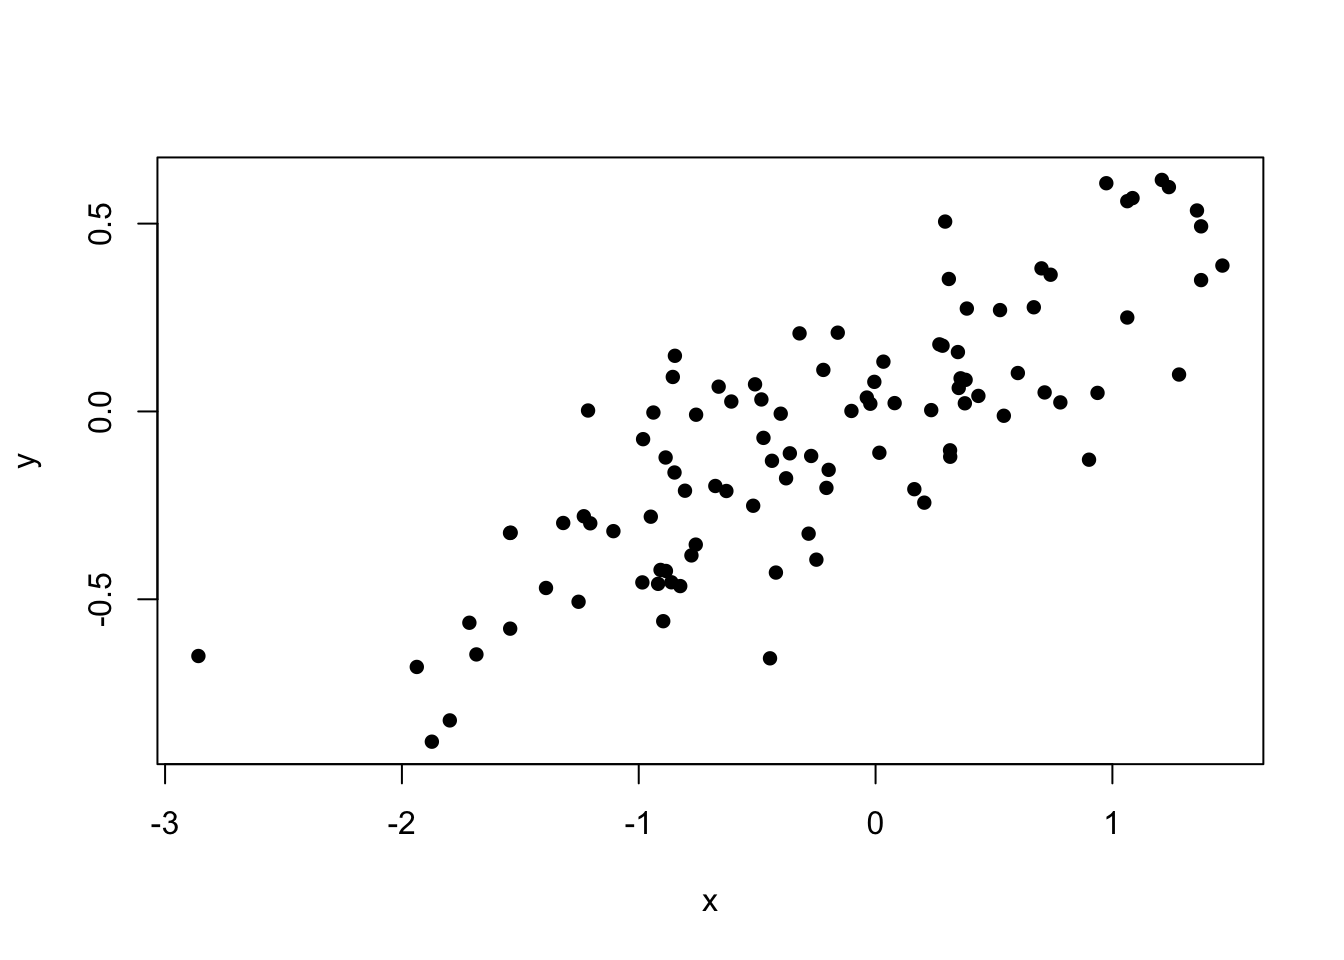
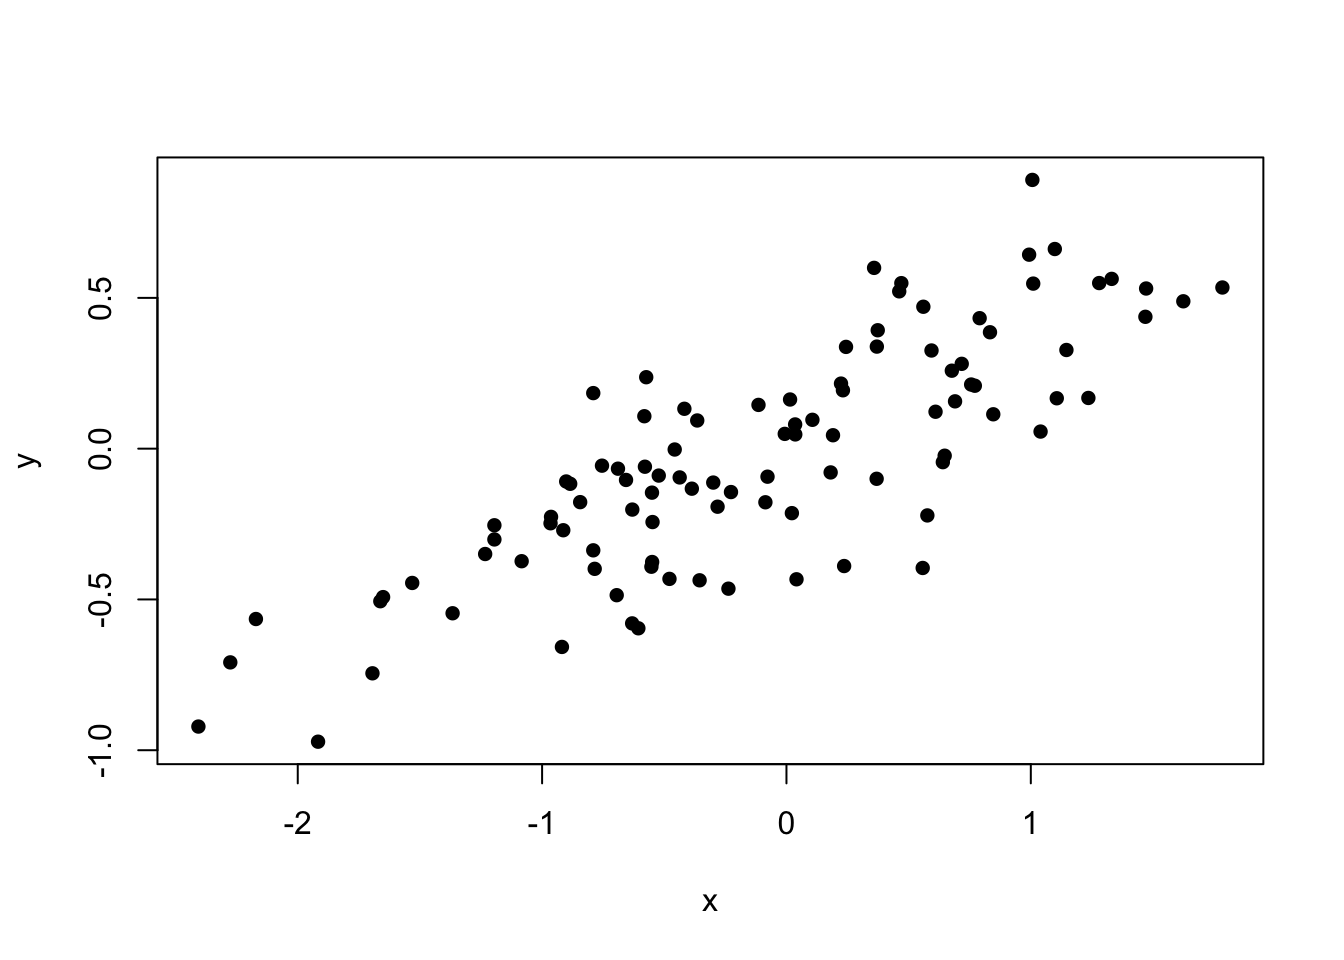
update

diff --git a/automation.html b/automation.html
@@ -119,15 +119,15 @@ for(counter in myVector){
 <p>Often, we want to do some calculations, and save the results outside of the <code>for</code> loop. To do this, we can create a results vector in advance that is the same length as the vector we are looping over, then we can save the results each time in the appropriate slot.</p>
 <pre class="r"><code>myVector &lt;- runif(100, min = 1, max=10)
 myVector</code></pre>
-<pre><code>##   [1] 4.169032 9.381425 8.262496 9.544557 4.436901 4.822694 5.753550 2.374441 6.454186 2.900714 7.761086 5.262878
-##  [13] 6.566285 9.407271 7.956532 4.724440 6.323211 1.760518 5.189697 1.804985 3.332651 5.443809 2.734080 9.134047
-##  [25] 7.894031 4.351312 7.736285 1.319876 5.160511 4.344400 2.162907 4.056943 2.208939 5.192294 3.997332 9.098933
-##  [37] 5.841177 7.260616 2.173945 8.354821 2.711332 8.382490 8.309526 9.225534 3.455903 7.416200 5.832861 3.155038
-##  [49] 8.248312 3.901136 4.688629 8.967419 7.653447 6.412762 5.965366 6.557148 8.179407 7.179055 7.838160 1.622826
-##  [61] 4.993543 3.808863 9.500588 1.771975 4.017842 5.118576 4.176763 3.477405 8.071101 6.016221 6.342884 5.081467
-##  [73] 3.630910 6.901673 5.237839 5.603000 7.936080 8.070746 2.955768 6.877485 4.252765 5.878201 3.766132 4.372458
-##  [85] 5.023632 6.617605 1.813040 4.384392 2.615013 8.116380 1.078992 2.142113 9.446395 1.467616 7.224622 1.101452
-##  [97] 3.314160 4.384912 2.067689 5.979205</code></pre>
+<pre><code>##   [1] 6.607003 9.692862 5.444176 4.748146 8.833713 4.596215 6.564168 4.848860 2.696456 3.965114 5.497345 2.406339
+##  [13] 1.401822 8.041336 3.485758 4.058546 9.577417 6.015290 7.410805 1.287536 3.777164 9.438812 8.274525 6.451334
+##  [25] 6.911961 7.372483 3.838205 2.063914 2.556646 4.211633 1.654287 4.512662 3.876075 1.928881 2.573089 1.943260
+##  [37] 3.027283 7.554731 2.969709 5.576643 2.791155 2.928296 3.302682 3.321758 7.389931 4.146995 5.193015 4.718434
+##  [49] 7.092931 9.790803 4.585226 5.631485 6.715122 2.221321 4.930676 1.829307 1.205020 7.983958 7.336623 1.654236
+##  [61] 4.817655 4.693708 6.337397 4.240566 9.031517 1.222854 1.447238 1.683177 2.622274 2.713583 6.804874 7.253059
+##  [73] 1.745182 9.660749 2.313303 8.076350 7.669403 3.461993 1.814179 8.679249 5.436453 4.329382 4.850197 9.902828
+##  [85] 1.525541 8.711777 5.984902 4.454385 1.867512 7.818484 7.611648 1.024939 8.355088 5.020087 5.304751 1.860386
+##  [97] 2.660011 2.584258 9.084583 3.221537</code></pre>
 <pre class="r"><code>results &lt;- numeric(100)
 for(each in 1:length(myVector)){
   results[each] &lt;- paste(myVector[each], &quot;^ 2 = &quot;, myVector[each]^2)
@@ -135,9 +135,9 @@ for(each in 1:length(myVector)){
 
 ##now get some of the stored results
 results[50]</code></pre>
-<pre><code>## [1] &quot;3.90113566513173 ^ 2 =  15.2188594777628&quot;</code></pre>
+<pre><code>## [1] &quot;9.79080264386721 ^ 2 =  95.8598164111571&quot;</code></pre>
 <pre class="r"><code>results[73]</code></pre>
-<pre><code>## [1] &quot;3.63090957142413 ^ 2 =  13.1835043158593&quot;</code></pre>
+<pre><code>## [1] &quot;1.74518220918253 ^ 2 =  3.04566094324722&quot;</code></pre>
 </div>
 <div id="if-statements" class="section level3">
 <h3><code>if</code> statements</h3>
@@ -177,9 +177,27 @@ for(trial in outcomes){
 <div id="lapply-writing-your-own-functions" class="section level2">
 <h2>lapply + writing your own functions</h2>
 <p>The function <code>lapply()</code> is like a <code>for</code> loop, but is optimized and explicitly functional. <code>lapply()</code> usually takes two arguments <code>X</code> which is a list or a vector to loop over, and <code>FUN</code> which is a function to apply to each element of <code>X</code>. Thus, <code>FUN</code> must be able to accept any element of <code>X</code> as an argument. The clearest way is to write your own function.</p>
+</div>
+<div id="writing-functions" class="section level2">
+<h2>Writing functions</h2>
+<p>Functions are the best way to encapsulate code that you want to repeat again and again. A function accepts <strong>arguments</strong> and <strong>returns</strong> a single (and only a single) object (but this can be a single number, list, dataframe, vector, etc.). Variable names defined within a function only exist within the function (not within the global environment).</p>
+<pre class="r"><code>is.even &lt;- function(number){
+  if(number %% 2 == 0) {return(&quot;The number is even&quot;)}
+  else {return(&quot;The number is not even&quot;)}
+}
+
+is.even(1233)</code></pre>
+<pre><code>## [1] &quot;The number is not even&quot;</code></pre>
+<pre class="r"><code>is.even(1234)</code></pre>
+<pre><code>## [1] &quot;The number is even&quot;</code></pre>
+<pre class="r"><code>is.even(-1.2)</code></pre>
+<pre><code>## [1] &quot;The number is not even&quot;</code></pre>
+</div>
+<div id="lists" class="section level2">
+<h2>Lists</h2>
 <p>The “l” in <code>lapply()</code> stands for “list”, because that’s what you get as a result. Lists are kind of like vectors, but with important differences:</p>
 <div id="lists-can-hold-any-type-of-data-and-not-every-element-needs-to-be-the-same-type." class="section level4">
-<h4>lists can hold any type of data, and not every element needs to be the same type.</h4>
+<h4><strong>lists can hold any type of data, and not every element needs to be the same type.</strong></h4>
 <pre class="r"><code>myList &lt;- list(firstOne=1, nextOne=&quot;too&quot;, lastOne=rnorm(10))
 myList</code></pre>
 <pre><code>## $firstOne
@@ -189,19 +207,23 @@ myList</code></pre>
 ## [1] &quot;too&quot;
 ## 
 ## $lastOne
-##  [1] -1.35088198  1.28972025  0.83358674 -0.49184546 -0.86115994  1.73056519 -0.22942816  0.74069528 -0.08964557
-## [10] -1.47823069</code></pre>
+##  [1]  0.05391183  1.86599507 -0.03946627  0.64870088 -0.92474533 -0.19205365  1.51686310 -0.04025312 -0.25323028
+## [10] -1.31165633</code></pre>
 </div>
 <div id="you-use-double-brackets-to-index-a-list" class="section level4">
 <h4>you use double brackets <code>[[]]</code> to index a list</h4>
 <pre class="r"><code>myList[[3]]</code></pre>
-<pre><code>##  [1] -1.35088198  1.28972025  0.83358674 -0.49184546 -0.86115994  1.73056519 -0.22942816  0.74069528 -0.08964557
-## [10] -1.47823069</code></pre>
+<pre><code>##  [1]  0.05391183  1.86599507 -0.03946627  0.64870088 -0.92474533 -0.19205365  1.51686310 -0.04025312 -0.25323028
+## [10] -1.31165633</code></pre>
 </div>
 <div id="lists-can-optionally-have-named-elements-that-can-be-accessed-using-the-operator" class="section level4">
 <h4>lists can (optionally) have named elements, that can be accessed using the <code>$</code> operator</h4>
 <pre class="r"><code>myList$nextOne</code></pre>
 <pre><code>## [1] &quot;too&quot;</code></pre>
+</div>
+<div id="where-have-you-seen-the-operator-before" class="section level3">
+<h3><span class="mega-octicon octicon-question"></span> Where have you seen the <code>$</code> operator before?</h3>
+<p>What does this suggest about the relationship between list and dataframes?</p>
 </div>
 <div id="lists-are-useful-because-of-their-flexibility." class="section level3">
 <h3>Lists are useful because of their flexibility.</h3>
@@ -218,16 +240,16 @@ sampleSizes &lt;- 100:200
 myResults &lt;- lapply(sampleSizes, FUN=summarizeRandom)
 myResults[1:3]</code></pre>
 <pre><code>## [[1]]
-##      Min.   1st Qu.    Median      Mean   3rd Qu.      Max. 
-## -2.115000 -0.647000 -0.082130  0.001523  0.738900  2.479000 
+##     Min.  1st Qu.   Median     Mean  3rd Qu.     Max. 
+## -2.63400 -0.59910  0.13100  0.03575  0.73400  1.97800 
 ## 
 ## [[2]]
-##      Min.   1st Qu.    Median      Mean   3rd Qu.      Max. 
-## -2.756000 -0.728300 -0.002824 -0.048310  0.767400  3.210000 
+##     Min.  1st Qu.   Median     Mean  3rd Qu.     Max. 
+## -2.93300 -0.80720  0.02071 -0.11770  0.48010  2.86700 
 ## 
 ## [[3]]
 ##     Min.  1st Qu.   Median     Mean  3rd Qu.     Max. 
-## -2.54500 -0.47060  0.13620  0.06689  0.75540  2.19300</code></pre>
+## -2.12200 -0.62650 -0.12730 -0.01093  0.57300  2.28900</code></pre>
 </div>
 </div>
 <div id="the-dplyr-package" class="section level2">
@@ -448,12 +470,12 @@ library(ggplot2)
 #chained syntax
 rnorm(1000, mean=20, sd=1.4) %&gt;% log %&gt;% qplot</code></pre>
 <pre><code>## stat_bin: binwidth defaulted to range/30. Use &#39;binwidth = x&#39; to adjust this.</code></pre>
-<p><img src="automation_files/figure-html/unnamed-chunk-21-1.png" title="" alt="" width="672" /></p>
+<p><img src="automation_files/figure-html/unnamed-chunk-22-1.png" title="" alt="" width="672" /></p>
 <pre class="r"><code>#compare with nested function calls 
 
 qplot(log(rnorm(1000, mean=20, sd=1.4)))</code></pre>
 <pre><code>## stat_bin: binwidth defaulted to range/30. Use &#39;binwidth = x&#39; to adjust this.</code></pre>
-<p><img src="automation_files/figure-html/unnamed-chunk-21-2.png" title="" alt="" width="672" /></p>
+<p><img src="automation_files/figure-html/unnamed-chunk-22-2.png" title="" alt="" width="672" /></p>
 </div>
 <div id="challenge-2" class="section level3">
 <h3><span class="mega-octicon octicon-puzzle"></span> Challenge</h3>

diff --git a/datasets.html b/datasets.html
@@ -148,7 +148,7 @@ if (window.hljs && document.readyState && document.readyState === "complete") {
 </table>
 <!--
 <ul>
-<li><a href=datasets/anage_longevity_data.txt>anage_longevity_data.txt</li><li><a href=datasets/baboons.txt>baboons.txt</li><li><a href=datasets/bad_data_organization.xls>bad_data_organization.xls</li><li><a href=datasets/barr_astrag_2014.txt>barr_astrag_2014.txt</li><li><a href=datasets/bovid_astrag_degusta.txt>bovid_astrag_degusta.txt</li><li><a href=datasets/DMV_2014_Q3_Undergrad_DirectLoans.csv>DMV_2014_Q3_Undergrad_DirectLoans.csv</li><li><a href=datasets/femur_lengths.txt>femur_lengths.txt</li><li><a href=datasets/gorilla_sizes.txt>gorilla_sizes.txt</li><li><a href=datasets/Howell_craniometry.csv>Howell_craniometry.csv</li><li><a href=datasets/Isler_et_al_brains.txt>Isler_et_al_brains.txt</li><li><a href=datasets/Living_Primates_Diet_Gomez_Verdu_2012.txt>Living_Primates_Diet_Gomez_Verdu_2012.txt</li><li><a href=datasets/Ossenberg-cranial-nonmetric-trait-dbase.csv>Ossenberg-cranial-nonmetric-trait-dbase.csv</li><li><a href=datasets/Pearce_etal_2012_homerange.csv>Pearce_etal_2012_homerange.csv</li><li><a href=datasets/ruminants.phy>ruminants.phy</li><li><a href=datasets/Zachos2001Climate.txt>Zachos2001Climate.txt</li>
+<li><a href=datasets/anage_longevity_data.txt>anage_longevity_data.txt</li><li><a href=datasets/baboons.txt>baboons.txt</li><li><a href=datasets/bad_data_organization.xls>bad_data_organization.xls</li><li><a href=datasets/barr_astrag_2014.txt>barr_astrag_2014.txt</li><li><a href=datasets/bovid_astrag_degusta.txt>bovid_astrag_degusta.txt</li><li><a href=datasets/DMV_2014_Q3_Undergrad_DirectLoans.csv>DMV_2014_Q3_Undergrad_DirectLoans.csv</li><li><a href=datasets/femur_lengths.txt>femur_lengths.txt</li><li><a href=datasets/gorilla_sizes.txt>gorilla_sizes.txt</li><li><a href=datasets/Howell_craniometry.csv>Howell_craniometry.csv</li><li><a href=datasets/Howell_Measurement_definitions.pdf>Howell_Measurement_definitions.pdf</li><li><a href=datasets/Isler_et_al_brains.txt>Isler_et_al_brains.txt</li><li><a href=datasets/Living_Primates_Diet_Gomez_Verdu_2012.txt>Living_Primates_Diet_Gomez_Verdu_2012.txt</li><li><a href=datasets/Ossenberg-cranial-nonmetric-trait-dbase.csv>Ossenberg-cranial-nonmetric-trait-dbase.csv</li><li><a href=datasets/Pearce_etal_2012_homerange.csv>Pearce_etal_2012_homerange.csv</li><li><a href=datasets/ruminants.phy>ruminants.phy</li><li><a href=datasets/Zachos2001Climate.txt>Zachos2001Climate.txt</li>
 
 </ul>
 -->
